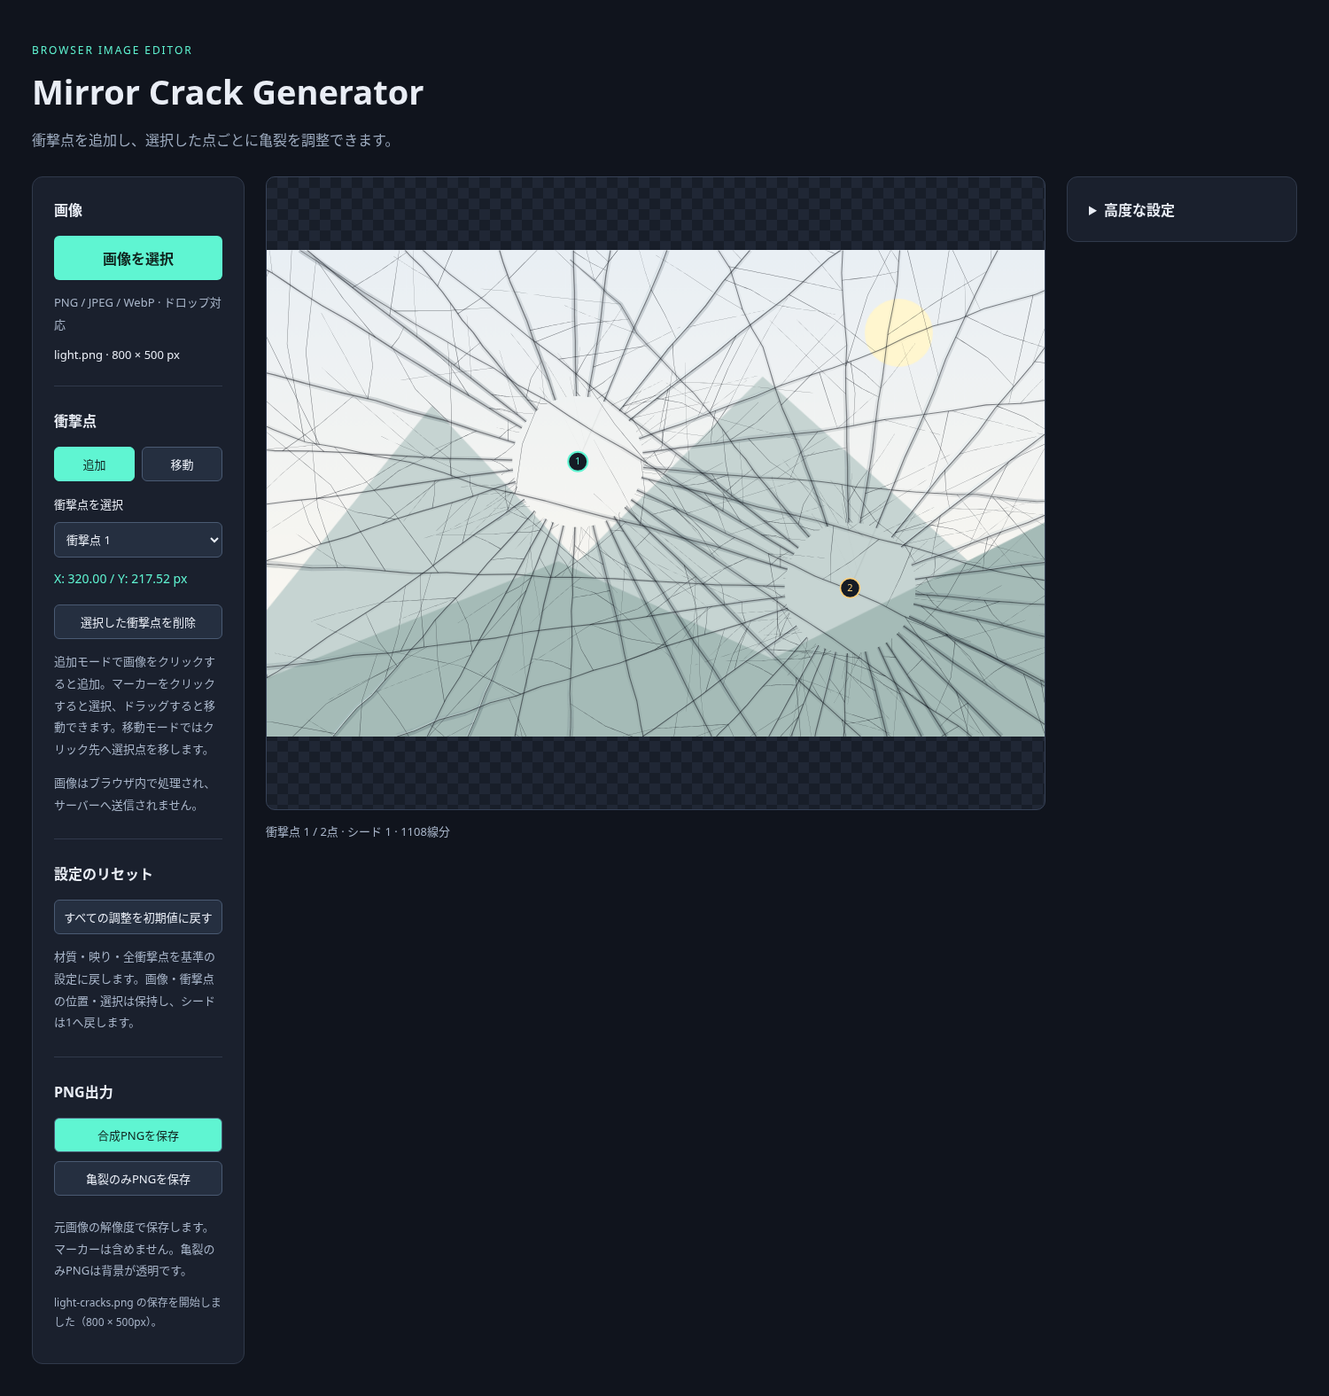
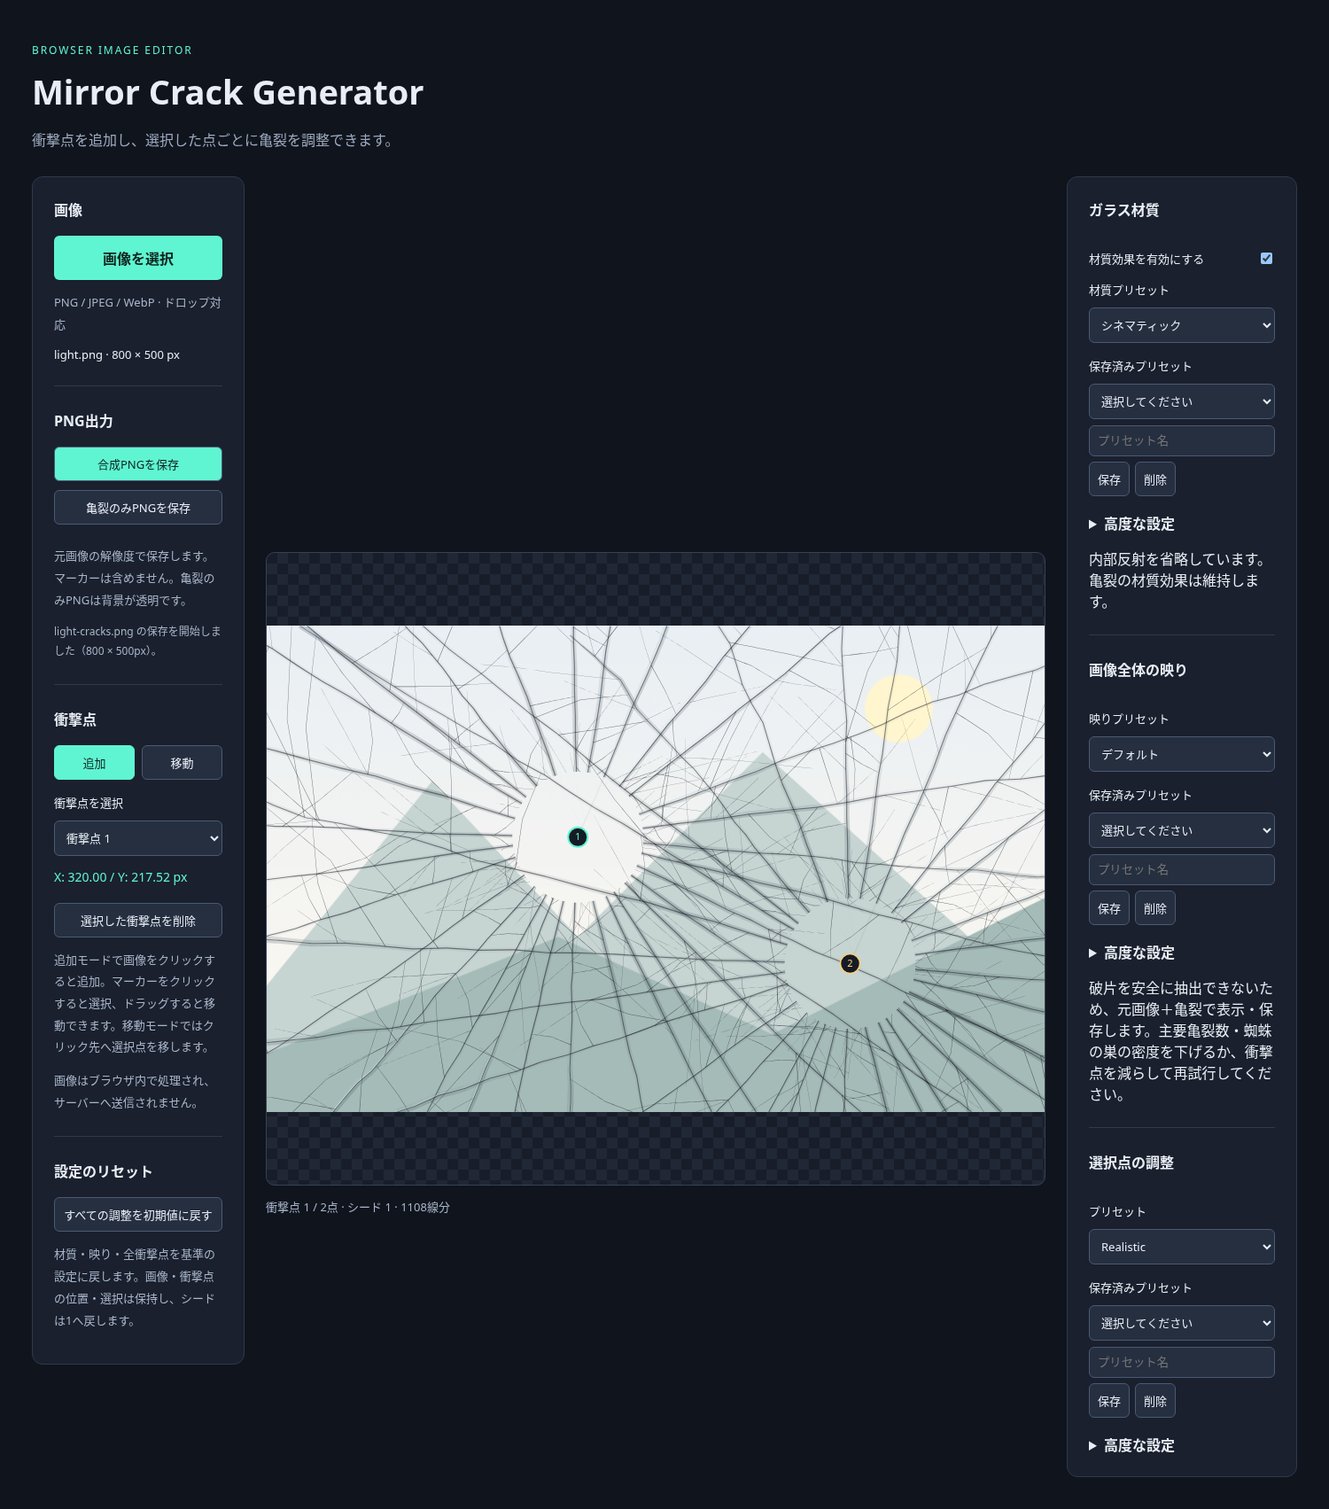
Keep presets visible and save custom presets per settings group

diff --git a/src/ui/editor.ts b/src/ui/editor.ts
@@ -1,3 +1,4 @@
+import { PRESET_STORAGE_KEY, decodePresets, savePreset, type SavedPreset, type PresetGroup } from '../state/customPresets';
 import { MATERIAL_SCALES, SHARD_SCALES, POINT_SCALES, DARKNESS_SCALE, controlPosition, controlValue, type ControlScale } from '../state/controlScale';
 import { APPLICATION_SHARD_DEFAULTS, createApplicationEditor, resetApplicationSettings } from '../state/applicationDefaults';
 import { effectiveImpactStrength, displayImpactStrength } from '../core/effectRanges';
@@ -40,6 +41,9 @@ const materialSliders = [
   { key: 'microDetail', label: '微細ディテール量', max: 100, unit: '%' },
 ] as const;
 
+function savedControls(group: PresetGroup): string {
+ return `<label class="control">保存済みプリセット<select id="${group}-saved"><option value="">選択してください</option></select></label><div class="preset-save"><input id="${group}-name" type="text" maxlength="40" aria-label="保存するプリセット名" placeholder="プリセット名"><button id="${group}-save" type="button">保存</button><button id="${group}-delete" type="button">削除</button></div><p id="${group}-save-status" class="hint" role="status"></p>`;
+}
 type Mode = 'add' | 'move';
 
 export function mountEditor(root: HTMLElement): void {
@@ -49,7 +53,12 @@ export function mountEditor(root: HTMLElement): void {
     <main><section class="panel"><h2>画像</h2>
       <label class="upload">画像を選択<input id="image-file" type="file" accept="image/png,image/jpeg,image/webp"></label>
       <p class="hint">PNG / JPEG / WebP · ドロップ対応</p>
-      <p class="metadata">画像未選択</p><hr><h2>衝撃点</h2>
+      <p class="metadata">画像未選択</p>      <hr><h2>PNG出力</h2>
+      <button type="button" id="export-composite" disabled>合成PNGを保存</button>
+      <button type="button" id="export-cracks" disabled>亀裂のみPNGを保存</button>
+      <p class="hint">元画像の解像度で保存します。マーカーは含めません。亀裂のみPNGは背景が透明です。</p>
+      <p id="export-status" role="status"></p>
+<hr><h2>衝撃点</h2>
       <div class="tools" role="group" aria-label="衝撃点の操作">
         <button type="button" data-mode="add" aria-pressed="true" disabled>追加</button>
         <button type="button" data-mode="move" aria-pressed="false" disabled>移動</button>
@@ -62,33 +71,32 @@ export function mountEditor(root: HTMLElement): void {
       <hr><h2>設定のリセット</h2>
       <button type="button" id="reset-settings" disabled>すべての調整を初期値に戻す</button>
       <p class="hint">材質・映り・全衝撃点を基準の設定に戻します。画像・衝撃点の位置・選択は保持し、シードは1へ戻します。</p>
-      <hr><h2>PNG出力</h2>
-      <button type="button" id="export-composite" disabled>合成PNGを保存</button>
-      <button type="button" id="export-cracks" disabled>亀裂のみPNGを保存</button>
-      <p class="hint">元画像の解像度で保存します。マーカーは含めません。亀裂のみPNGは背景が透明です。</p>
-      <p id="export-status" role="status"></p>
     </section><section class="workspace" aria-label="画像ドロップ領域">
       <div class="stage"><canvas aria-label="画像プレビュー。クリックで衝撃点を追加、マーカーをドラッグして移動"></canvas>
       <p class="placeholder">ここに画像をドロップ<br><span>または「画像を選択」から開く</span></p></div>
       <p class="status" role="status">画像を読み込むとプレビューが表示されます。</p>
-    </section><section class="panel settings"><details id="advanced-settings"><summary>高度な設定</summary><p class="hint">材質・映り・選択点の亀裂を細かく調整できます。</p><h2>ガラス材質</h2>
+    </section><section class="panel settings"><h2>ガラス材質</h2>
       <fieldset id="material-settings" disabled><legend class="sr-only">画像全体のガラス材質</legend>
       <label class="control"><span>材質効果を有効にする</span><input id="material-enabled" type="checkbox"></label>
       <label class="control">材質プリセット<select id="material-preset">${Object.entries(GLASS_MATERIAL_PRESETS).map(([id,p])=>`<option value="${id}">${p.label}</option>`).join('')}<option value="custom" disabled>カスタム</option></select></label>
+      ${savedControls('material')}<details id="material-advanced"><summary>高度な設定</summary>
       <p class="hint">画像全体に適用します。シネマティックは見栄えと視認性のバランス型、リアルは控えめ、ドラマティックは強調型。選択後も自由に調整できます。</p>
       ${materialSliders.map(s=>`<label class="control" for="material-${s.key}">${s.label}<output id="material-${s.key}-value"></output></label><input id="material-${s.key}" type="range" min="0" max="${s.max}" step="0.1">`).join('')}
       <button type="button" id="material-reset">材質をデフォルトに戻す</button>
       <p class="hint">厚み・反射幅・黒い亀裂の太さは独立です。つまみの中央50%が今回の初期の見た目です。横の数値は実際の設定値です。右側でさらに強められます。内部反射は合成PNGだけに適用し、保護領域と重なる破片全体を維持します。</p>
-      </fieldset><p id="material-status" role="status"></p><hr><h2>画像全体の映り</h2>
+      </details></fieldset><p id="material-status" role="status"></p><hr><h2>画像全体の映り</h2>
       <fieldset id="shard-settings" disabled><legend class="sr-only">鏡の破片の画像変形</legend>
+      <label class="control">映りプリセット<select id="shard-preset"><option value="default">デフォルト</option><option value="subtle">控えめ</option><option value="none">変形なし</option><option value="custom" disabled>カスタム</option></select></label>
+      ${savedControls('shard')}<details id="shard-advanced"><summary>高度な設定</summary>
       <p class="hint">全ての衝撃点で区切られた破片に適用します。ずれ・回転・明暗差は中央50%が初期の見た目です。横の数値は実効値です。隙間0は左端のままです。</p>
       <button type="button" id="shard-demo">映りの変化を試す</button>
       ${shardSliders.map(s=>`<label class="control" for="shard-${s.key}">${s.label}<output id="shard-${s.key}-value">0%</output></label><input id="shard-${s.key}" type="range" min="0" max="100" step="1" value="0">`).join('')}
       <button type="button" id="shard-reset">映りをデフォルトに戻す</button>
       <p class="hint">中心密度0%の領域と重なる破片全体を保護します。大きい破片から最大256個を変更し、小片は元画像のまま残します。合成PNGに反映し、亀裂のみPNGは従来どおりです。</p>
-      </fieldset><p id="shard-status" role="status"></p><hr><h2>選択点の調整</h2>
+      </details></fieldset><p id="shard-status" role="status"></p><hr><h2>選択点の調整</h2>
       <fieldset id="settings" disabled><legend class="sr-only">亀裂設定</legend>
       <label class="control">プリセット<select id="preset"><option value="realistic">Realistic</option><option value="anime">Anime</option>${Object.entries(EFFECT_PRESETS).map(([id, p]) => `<option value="${id}">${p.label}</option>`).join('')}</select></label>
+      ${savedControls('point')}<details id="point-advanced"><summary>高度な設定</summary>
       <p class="hint">切り替えると調整値を初期化します。位置・シードは保持します。</p>
       <label class="control" for="impact-strength">衝撃の強さ<output id="impact-strength-value"></output></label>
       <input id="impact-strength" type="range" min="0" max="100" step="1" value="50">
@@ -102,8 +110,7 @@ export function mountEditor(root: HTMLElement): void {
       <button type="button" id="regenerate">再生成</button>
       <button type="button" id="point-reset">選択点の亀裂をデフォルトに戻す</button>
       <p class="hint">再生成でシードを1つ進めます。スライダー操作ではシードを保持します。</p>
-      </fieldset>
-      </details>
+      </details></fieldset>
     </section></main>`;
   const get = <T extends HTMLElement>(selector: string): T => root.querySelector<T>(selector)!;
   const canvas = get<HTMLCanvasElement>('canvas');
@@ -116,6 +123,8 @@ export function mountEditor(root: HTMLElement): void {
   const preset = get<HTMLSelectElement>('#preset');
   let image: HTMLImageElement | null = null;
   let state: EditorState | null = null;
+  let saved: SavedPreset[] = [];
+  try { saved = decodePresets(localStorage.getItem(PRESET_STORAGE_KEY)); } catch { get('#material-save-status').textContent='保存済みプリセットを読み込めません。ブラウザの保存設定をご確認ください。'; }
   let mode: Mode = 'add';
   let request = 0;
   let imageName = 'image';
@@ -159,6 +168,14 @@ export function mountEditor(root: HTMLElement): void {
   }
   function refresh(): void {
     const active = state?.active;
+    for(const group of ['material','shard','point'] as const){
+      const select=get<HTMLSelectElement>(`#${group}-saved`), value=select.value;
+      select.replaceChildren(new Option('選択してください',''));
+      saved.forEach(p=>{if(p.group===group)select.add(new Option(p.name,p.name));});
+      select.value=Array.from(select.options).some(o=>o.value===value)?value:'';
+    }
+    const shard=state?.shards.settings;
+    get<HTMLSelectElement>('#shard-preset').value=shard&&Object.keys(APPLICATION_SHARD_DEFAULTS).every(k=>shard[k as keyof typeof shard]===APPLICATION_SHARD_DEFAULTS[k as keyof typeof shard])?'default':shard&&Object.values(shard).every(v=>v===0)?'none':shard&&shard.displacement===30&&shard.rotation===20&&shard.reflection===30&&shard.gap===0?'subtle':'custom';
     list.replaceChildren();
     if (state?.impacts.length) {
       for (const impact of state.impacts) list.add(new Option(`衝撃点 ${impact.id}`, String(impact.id)));
@@ -323,6 +340,37 @@ export function mountEditor(root: HTMLElement): void {
     const control=get<HTMLInputElement>(`#material-${slider.key}`);
     control.addEventListener('input',()=>{const value=control.valueAsNumber;queue(`material-${slider.key}`,()=>state?.glass.update({[slider.key]:slider.key==='lightDirection'?value:controlValue(value,MATERIAL_SCALES[slider.key])}));});
   }
+  for(const group of ['material','shard','point'] as const){
+    const message=get(`#${group}-save-status`);
+    get(`#${group}-save`).addEventListener('click',()=>edit(()=>{
+      if(!state)return;
+      const name=get<HTMLInputElement>(`#${group}-name`).value.trim();
+      let entry:SavedPreset;
+      if(group==='material')entry={group,name,values:{...state.glass.settings}};
+      else if(group==='shard')entry={group,name,values:{...state.shards.settings}};
+      else {if(!state.active)return;entry={group,name,values:{params:{...state.active.params},darkness:state.active.surface?.darkness??60,style:state.active.preset}};}
+      try {const next=savePreset(saved,entry);localStorage.setItem(PRESET_STORAGE_KEY,JSON.stringify(next));saved=next;message.textContent=`「${name}」を保存しました。同じ名前は上書きします。`;}
+      catch {message.textContent='保存できません。名前（1〜40文字）、件数（各20件）、ブラウザの保存設定をご確認ください。';}
+    }));
+    get(`#${group}-saved`).addEventListener('change',()=>edit(()=>{
+      const value=get<HTMLSelectElement>(`#${group}-saved`).value;if(value===''||!state)return;
+      const entry=saved.find(p=>p.group===group&&p.name===value);if(!entry)return;
+      if(entry.group==='material')state.glass.update(entry.values);
+      else if(entry.group==='shard')state.shards.update(entry.values);
+      else if(state.active){state.applyPreset(entry.values.style);state.update({params:entry.values.params});state.updateSurface({darkness:entry.values.darkness,widthPercent:0,chipDensity:0});}
+      get<HTMLInputElement>(`#${group}-name`).value=entry.name;
+      message.textContent=`「${entry.name}」を適用しました。`;
+    }));
+    get(`#${group}-delete`).addEventListener('click',()=>edit(()=>{
+      const value=get<HTMLSelectElement>(`#${group}-saved`).value;if(value==='')return;
+      try {const next=saved.filter(p=>p.group!==group||p.name!==value);localStorage.setItem(PRESET_STORAGE_KEY,JSON.stringify(next));saved=next;message.textContent='保存済みプリセットを削除しました。';}
+      catch {message.textContent='削除できません。ブラウザの保存設定をご確認ください。';}
+    }));
+  }
+  get('#shard-preset').addEventListener('change',()=>edit(()=>{
+    const value=get<HTMLSelectElement>('#shard-preset').value;
+    state?.shards.update(value==='default'?APPLICATION_SHARD_DEFAULTS:value==='subtle'?{displacement:30,rotation:20,reflection:30,gap:0}:{displacement:0,rotation:0,reflection:0,gap:0});
+  }));
   get('#material-enabled').addEventListener('change',()=>edit(()=>state?.glass.update({enabled:get<HTMLInputElement>('#material-enabled').checked})));
   get('#material-preset').addEventListener('change',()=>edit(()=>state?.glass.applyPreset(get<HTMLSelectElement>('#material-preset').value as GlassMaterialPreset)));
   get('#material-reset').addEventListener('click',()=>edit(()=>state?.glass.applyPreset('cinematic')));

diff --git a/src/state/customPresets.ts b/src/state/customPresets.ts
@@ -1,0 +1,47 @@
+import type { GlassMaterialSettings } from '../core/glassMaterial';
+import type { ImpactParams, StylePreset } from './editorState';
+import type { ShardImageSettings } from './shardImageState';
+export type PresetGroup = 'material' | 'shard' | 'point';
+export type PresetValues = {
+ material: GlassMaterialSettings;
+ shard: ShardImageSettings;
+ point: { params: ImpactParams; darkness: number; style: StylePreset };
+};
+export type SavedPreset = { [K in PresetGroup]: { group: K; name: string; values: PresetValues[K] } }[PresetGroup];
+export const PRESET_STORAGE_KEY = 'mirror-crack.custom-presets.v1';
+const ranges: Record<string, [number, number]> = {radialCount:[4,45],lengthPercent:[10,300],complexity:[0,180],concentricDensity:[0,190],centerRadius:[0,80],centerDensity:[0,100],maxSegments:[1,5000],lineWidth:[.5,9],opacity:[0,100],highlight:[0,100]};
+function numeric(value:unknown, schema:Record<string,[number,number]>):boolean {
+ if(!value || typeof value!=='object')return false;
+ const data=value as Record<string,unknown>;
+ return Object.keys(data).length===Object.keys(schema).length&&Object.entries(schema).every(([k,[min,max]])=>typeof data[k]==='number'&&Number.isFinite(data[k])&&(data[k] as number)>=min&&(data[k] as number)<=max);
+}
+export function validPreset(value:unknown):value is SavedPreset {
+ if(!value||typeof value!=='object')return false;
+ const p=value as Record<string,unknown>;
+ if(typeof p.name!=='string'||!p.name.trim()||p.name.length>40)return false;
+ if(p.group==='shard')return numeric(p.values,{displacement:[0,200],rotation:[0,200],reflection:[0,200],gap:[0,200]});
+ if(p.group==='material'){
+  if(!p.values||typeof p.values!=='object')return false;
+  const {enabled,...rest}=p.values as Record<string,unknown>;
+  return typeof enabled==='boolean'&&numeric(rest,{thickness:[0,200],lightDirection:[0,360],reflectionWidth:[0,200],edgeReflection:[0,200],interiorReflection:[0,200],microDetail:[0,200]});
+ }
+ if(p.group==='point'){
+  const v=p.values as PresetValues['point']|undefined;
+  return !!v&&['realistic','anime'].includes(v.style)&&numeric(v.params,ranges)&&Number.isInteger(v.params.radialCount)&&Number.isInteger(v.params.maxSegments)&&Number.isFinite(v.darkness)&&v.darkness>=0&&v.darkness<=100;
+ }
+ return false;
+}
+export function decodePresets(raw:string|null):SavedPreset[]{
+ if(!raw)return [];
+ if(raw.length>100000)throw new Error('保存データが大きすぎます。');
+ const data:unknown=JSON.parse(raw);
+ if(!Array.isArray(data)||data.length>60||!data.every(validPreset))throw new Error('保存済みプリセットを読み込めません。');
+ return data;
+}
+/** Same-name saves replace only that group's preset. Storage must succeed before UI state changes. */
+export function savePreset(existing:readonly SavedPreset[], preset:SavedPreset):SavedPreset[]{
+ if(!validPreset(preset))throw new Error('名前は1〜40文字で設定してください。');
+ const next=existing.filter(p=>p.group!==preset.group||p.name!==preset.name);
+ if(next.filter(p=>p.group===preset.group).length>=20)throw new Error('保存は各種類20件までです。');
+ return [...next,structuredClone(preset)];
+}

diff --git a/src/state/customPresets.test.ts b/src/state/customPresets.test.ts
@@ -1,0 +1,19 @@
+import { expect, it } from 'vitest';
+import { decodePresets, savePreset, validPreset, type SavedPreset } from './customPresets';
+import { createApplicationEditor } from './applicationDefaults';
+const state=createApplicationEditor({width:800,height:500});state.add({x:400,y:250});
+const entries:SavedPreset[]=[{group:'material',name:'材質',values:{...state.glass.settings}},{group:'shard',name:'映り',values:{...state.shards.settings}},{group:'point',name:'亀裂',values:{params:{...state.active!.params},style:'realistic',darkness:60}}];
+it('3種類を保存・復元し、幾何・画像・座標・シードを保存しない',()=>{
+ expect(entries.every(validPreset)).toBe(true);expect(decodePresets(JSON.stringify(entries))).toEqual(entries);expect(decodePresets(null)).toEqual([]);
+ expect(JSON.stringify(entries)).not.toMatch(/origin|segments|seed/);
+});
+it('同名は同じグループだけ上書きし、元データと参照を共有しない',()=>{
+ const next=savePreset(entries,{...entries[0],name:'映り'});expect(next).toHaveLength(4);expect(savePreset(next,{...entries[0],name:'映り'})).toHaveLength(4);
+ const saved=savePreset([],entries[0]);expect(saved[0]).not.toBe(entries[0]);expect(entries).toHaveLength(3);
+});
+it('不正値・不正JSON・件数上限を拒否する',()=>{
+ for(const raw of ['{','{}','[null]',JSON.stringify([{...entries[0],name:''}]),' '.repeat(100001)])expect(()=>decodePresets(raw)).toThrow();
+ expect(validPreset({group:'point',name:'bad',values:{...entries[2].values,params:{...state.active!.params,radialCount:4.5}}})).toBe(false);
+ expect(validPreset({group:'shard',name:'bad',values:{displacement:Infinity,rotation:0,reflection:0,gap:0}})).toBe(false);
+ const full=Array.from({length:20},(_,i)=>({...entries[0],name:String(i)}));expect(()=>savePreset(full,{...entries[0],name:'21'})).toThrow();expect(savePreset(full,{...entries[0],name:'0'})).toHaveLength(20);
+});

diff --git a/src/style.css b/src/style.css
@@ -21,6 +21,8 @@ canvas{touch-action:none}.sr-only{position:absolute;width:1px;height:1px;padding
 
 #reset-settings{width:100%}
 
-#advanced-settings>summary{cursor:pointer;font-weight:700;font-size:16px}
-#advanced-settings>summary:focus-visible{outline:2px solid #5ff5d2;outline-offset:4px}
+.settings details>summary{cursor:pointer;font-weight:700;font-size:16px}
+.settings details>summary:focus-visible{outline:2px solid #5ff5d2;outline-offset:4px}
 #point-reset{width:100%;margin-top:12px}
+
+.preset-save{display:flex;flex-wrap:wrap;gap:6px}.preset-save input{min-width:0;width:100%;background:#252f40;color:#e9edf5;border:1px solid #4a5a73;border-radius:6px;padding:9px}.settings details{margin-top:18px}

diff --git a/ARCHITECTURE.md b/ARCHITECTURE.md
@@ -203,5 +203,8 @@ type Impact = { id: string; origin: Point; seed: number; preset: StylePreset; pa
 UIは既存の編集キューをフラッシュしてから初期化し、プレビューを再描画する。画像オブジェクトは置換しない。
 画像なし・読み込み中・保存中はリセットボタンを無効化する。通常UIの個別リセットも0ではなく初期値へ戻す。低レベルの効果0 APIは互換用に維持する。
 
-材質・映り・亀裂の詳細はネイティブの`details#advanced-settings`内に置き、初期状態で閉じる。
+材質・映り・亀裂の詳細はそれぞれネイティブの`details#material-advanced`、`details#shard-advanced`、`details#point-advanced`内に置き、初期状態で閉じる。プリセット操作は折りたたみの外。
 `resetPoints(id)`は指定点のみ、引数なしは全点を復帰する。材質はシネマティック、映りはAPPLICATION_SHARD_DEFAULTSを使う。
+
+## カスタムプリセット
+`state/customPresets.ts`は保存形式・入力検証・同名上書きと件数上限を扱う純粋関数。UIはlocalStorageの読み書きを例外処理し、保存成功後だけライブラリを更新する。名前はOptionのテキストとして表示する。画像・座標・シード・生成幾何は保存しない。選択点の保存値はスタイル・実効パラメータ・黒線濃度で、適用時は個別値を優先し旧破断面強調を0に保つ。

diff --git a/docs/DEVELOPMENT.md b/docs/DEVELOPMENT.md
@@ -179,3 +179,6 @@ Vite の `base` は `/mirror-crack-generator/` に設定しています。
 Playwrightでの検証は `node tests/reset-settings-ui.cjs`（必要ならNODE_PATHを指定）。
 
 材質・映り・亀裂は初期状態で閉じた「高度な設定」内。個別リセットは各グループの起動時設定へ戻す。選択点リセットは他点を保持する。
+
+プリセットは常時表示し、材質・映り・選択点それぞれの高度な設定だけ折りたたむ。PNG出力は画像と衝撃点操作の間。
+`node tests/preset-library-ui.cjs`で保存・再読み込み・呼び出し・削除・保存拒否、描画一致と両PNGを確認できる（PlaywrightのNODE_PATHが必要な環境では指定）。
